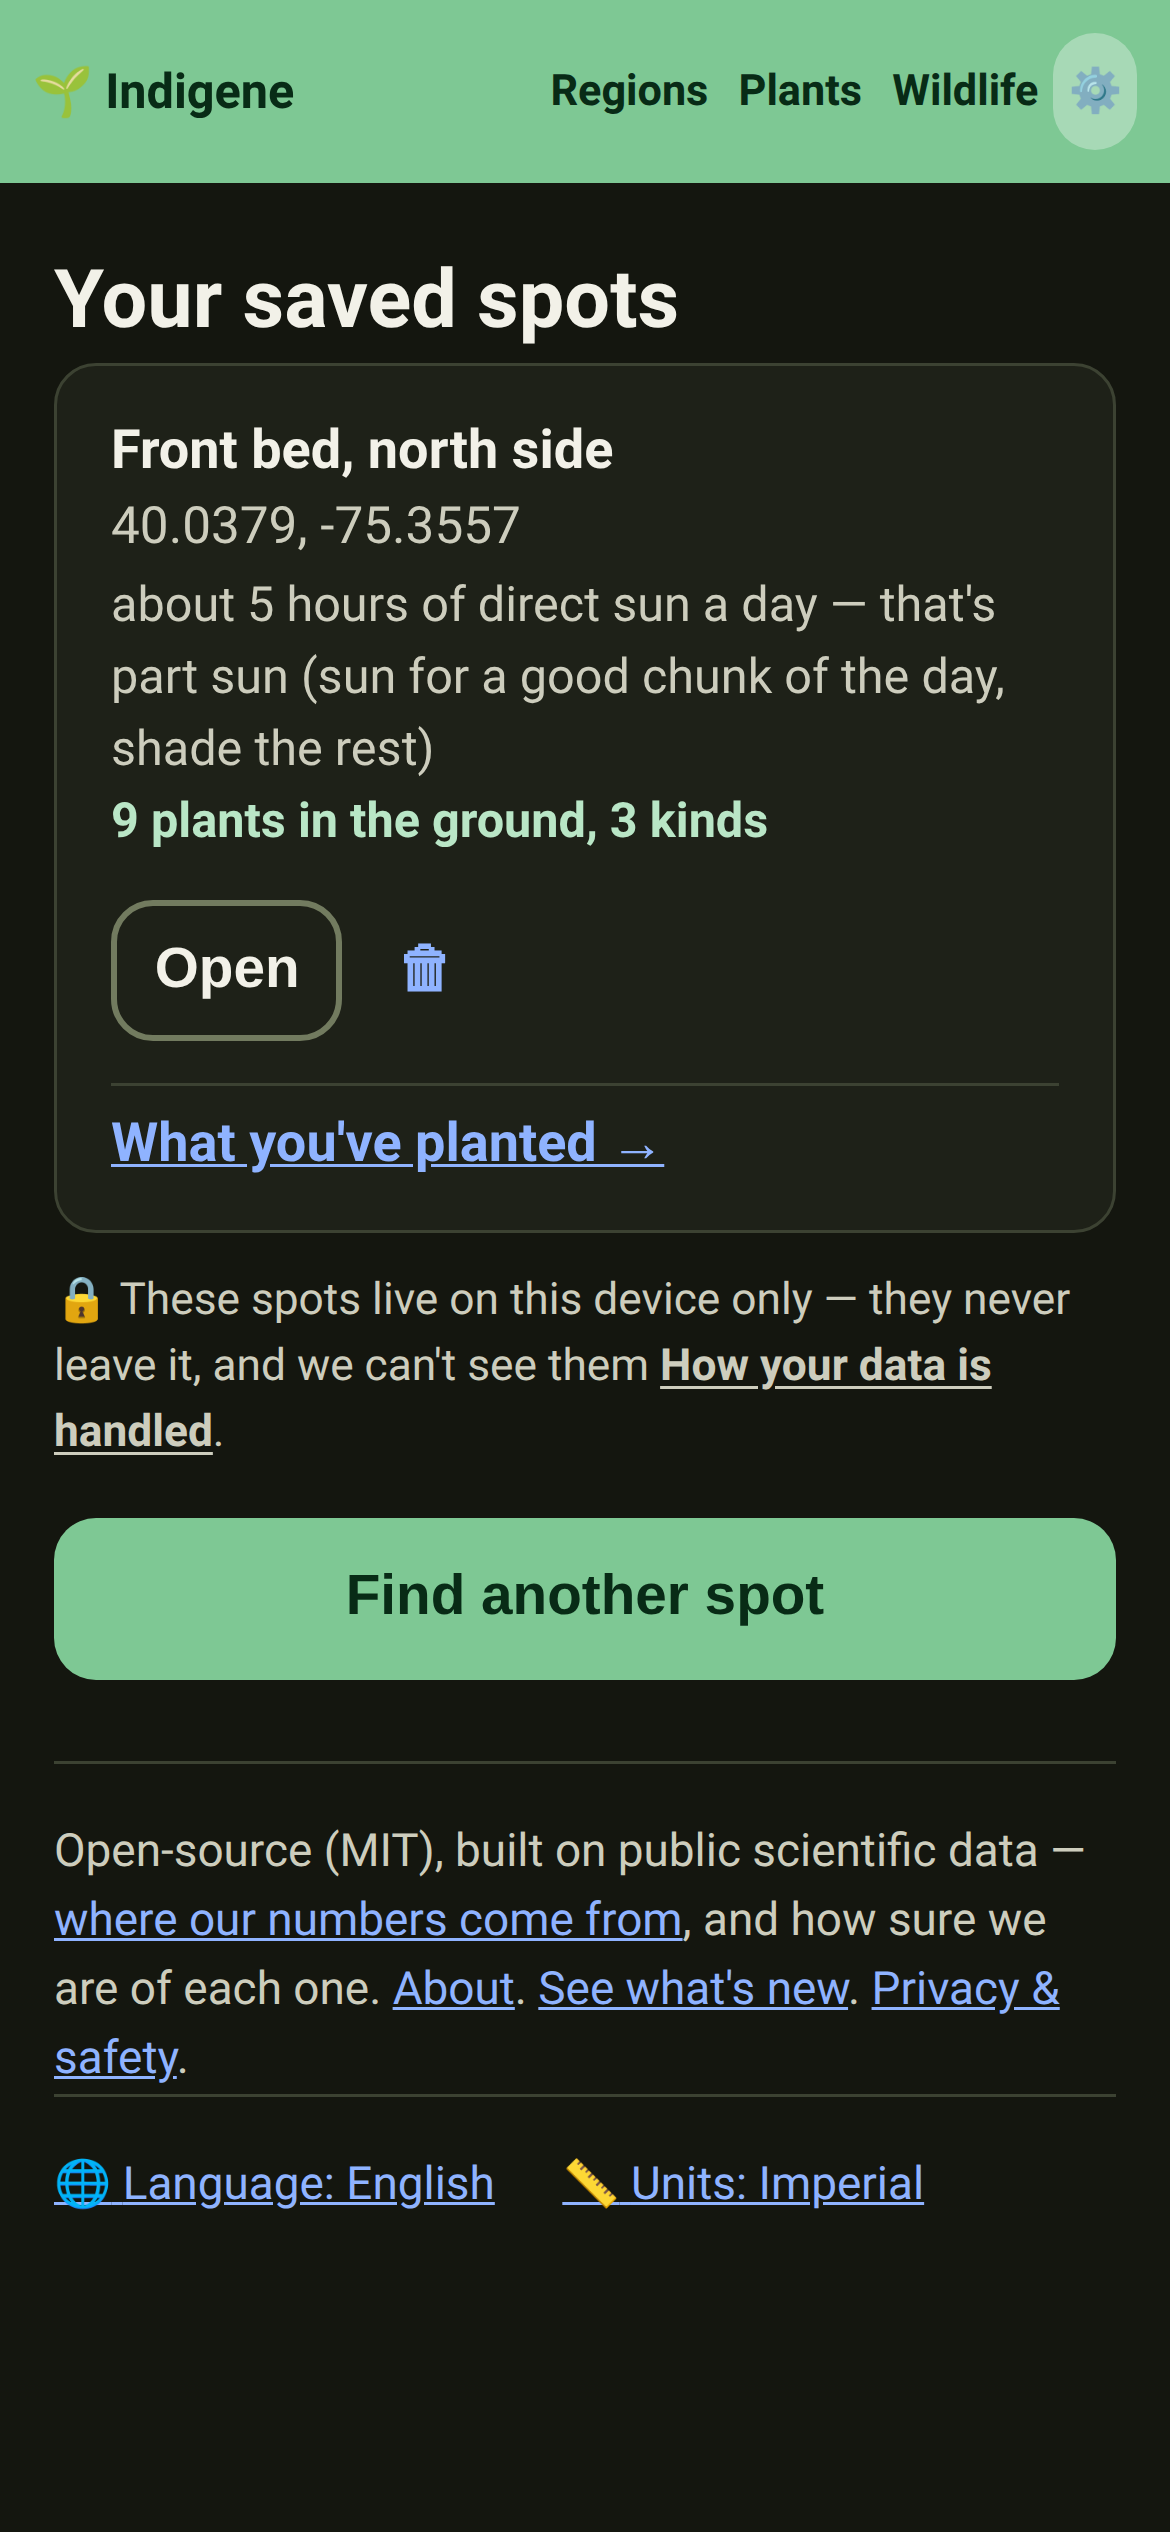
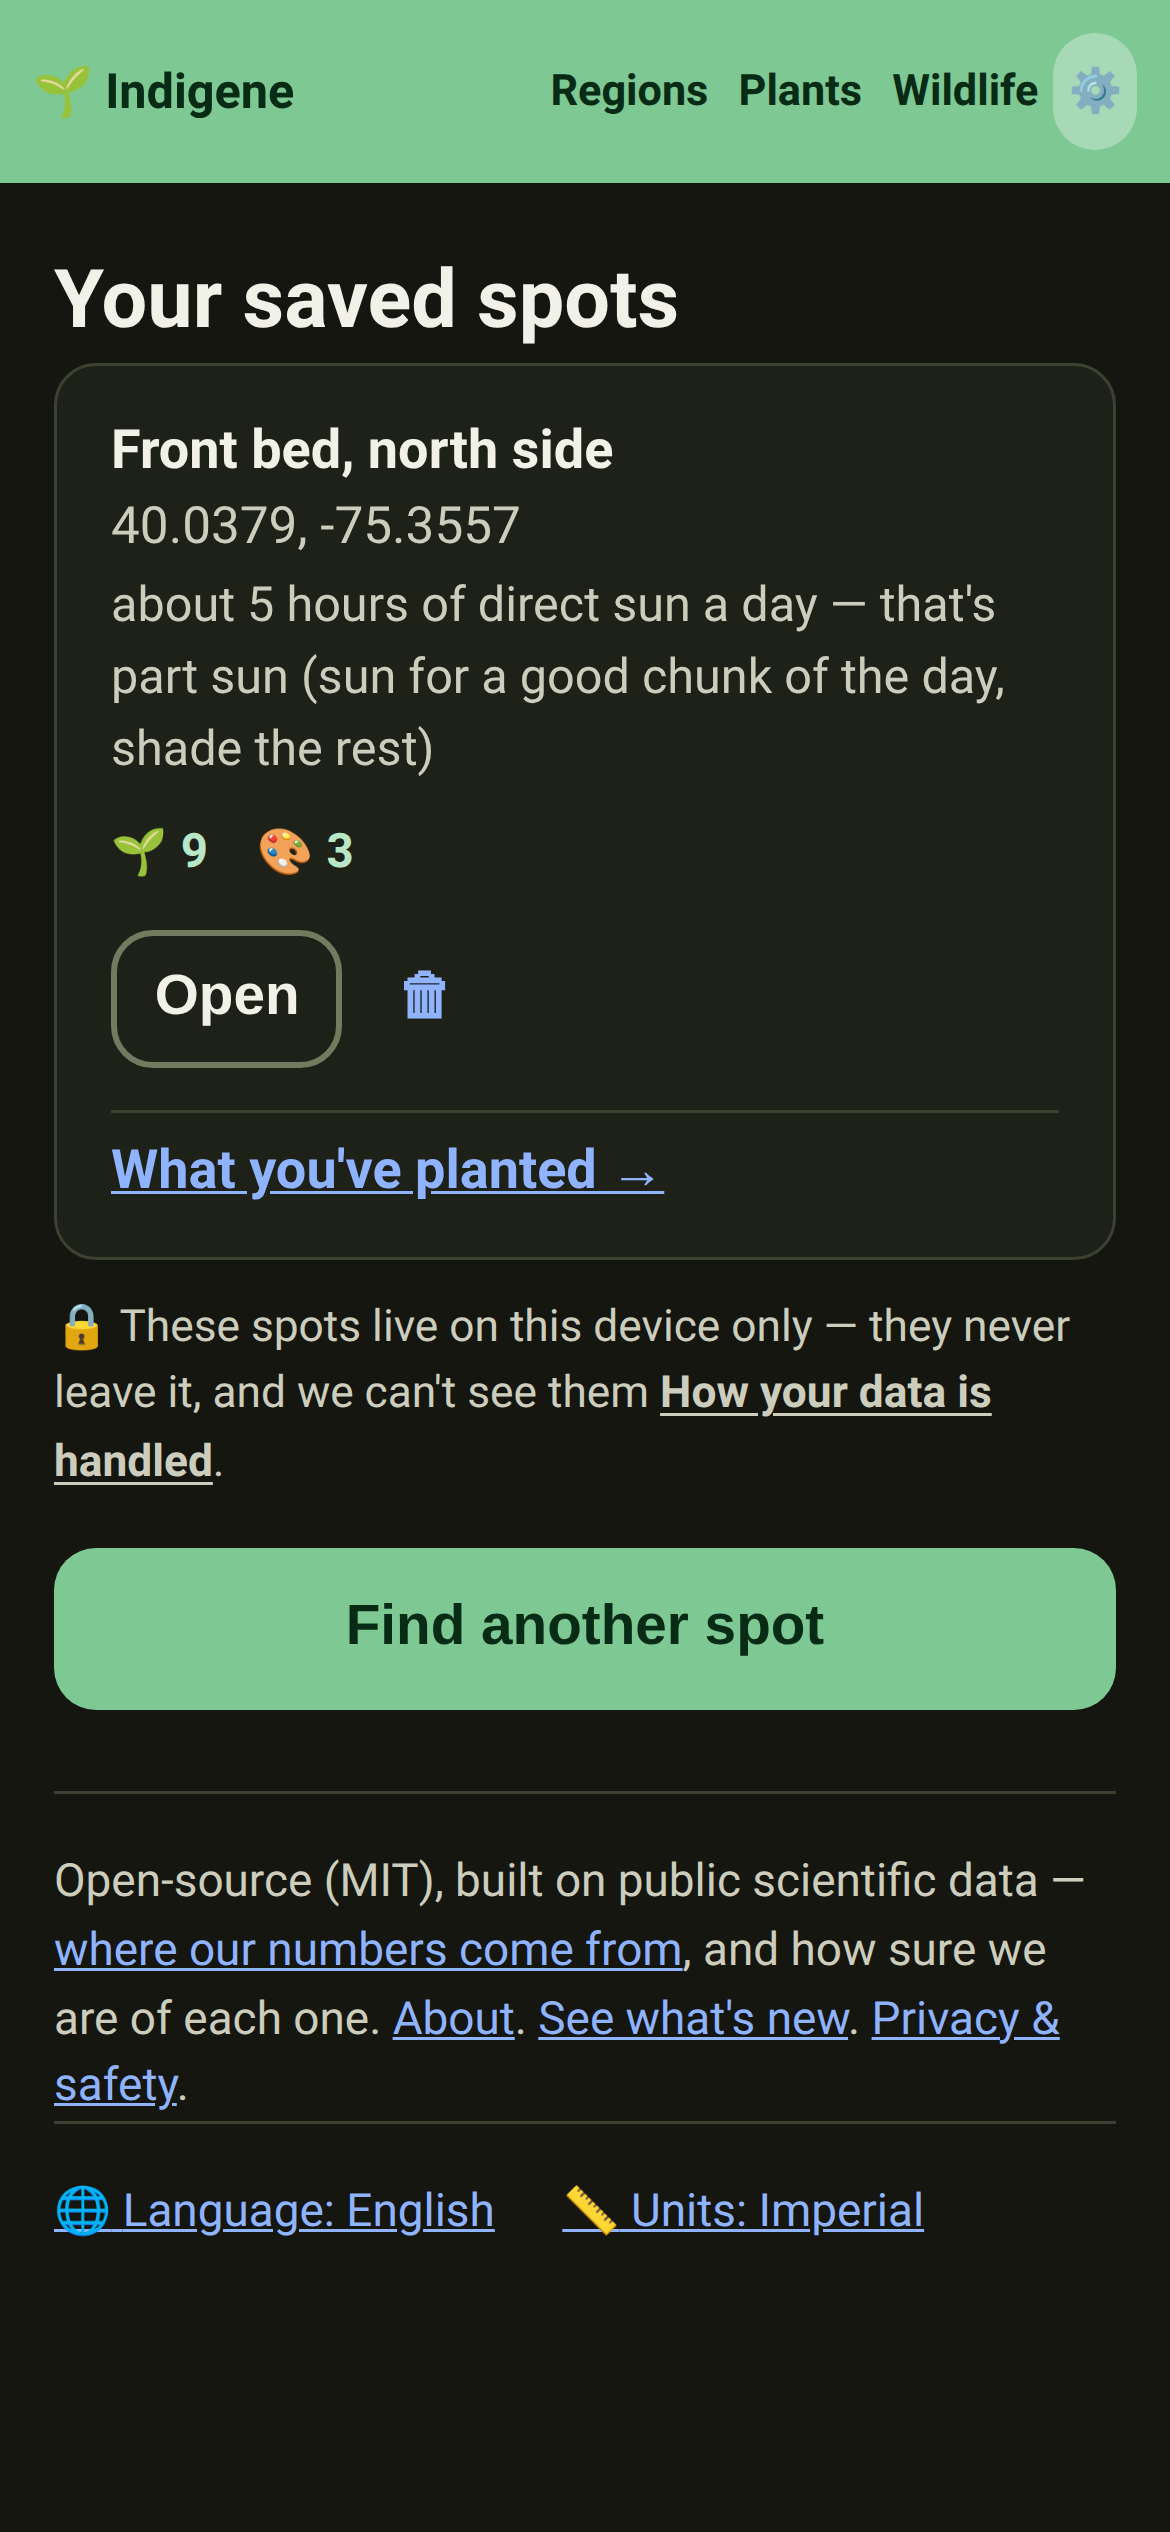
Say a spot's tally the way a region card says its own
"9 plants in the ground, 3 kinds" was a paragraph doing a tile's job: a
sentence to read where two figures would do, and one that grew wider with
every plant added. The Saved list now carries the same icon-and-number row
the region and wildlife cards do (`cardStats`) — 🌱 9 · 🎨 3, matching the
icons on the spot's own stat tiles — with the full sentence kept as the
tooltip and the accessible name.

Claude-Session: https://claude.ai/code/session_01XM5jyCn1X8FjMPArxDLHAj

diff --git a/app/src/steps/saved.ts b/app/src/steps/saved.ts
@@ -5,6 +5,7 @@ import type { Planting } from "../types";
 import { sunPlain } from "../lib/plain";
 import { tally } from "../lib/garden";
 import { privacyNote } from "../components/privacy-link";
+import { cardStats } from "../components/card-stats";
 import { t, tn, fmtNumber } from "../lib/i18n";
 
 // Saved spots — local-first, no account. Open one to reload its readings and
@@ -35,15 +36,28 @@ export async function renderSaved(main: HTMLElement): Promise<void> {
         el("div", { class: "coords" }, `${s.lat.toFixed(4)}, ${s.lon.toFixed(4)}`),
         el("div", { style: "font-size:0.9rem;color:var(--ink-soft)" },
           s.sun ? sunPlain(s.sun.hours) : t("saved.sunUnknown")),
-        // What's actually in the ground here, when anything is. A spot with an
-        // empty log says nothing rather than "0 plants": the log is an offer,
-        // not a chore somebody is behind on.
+        // What's actually in the ground here, when anything is — as figures
+        // rather than a sentence about them, the same row a region's card
+        // carries. "9 plants in the ground, 3 kinds" was a paragraph doing a
+        // tile's job: slower to read, wider than a phone at two spots, and a
+        // translation besides. The full sentence is still there, in the
+        // tooltip and as the accessible name.
+        //
+        // A spot with an empty log shows nothing rather than a row of zeroes:
+        // the log is an offer, not a chore somebody is behind on.
         counts.plants
-          ? el("div", { class: "saved-tally" },
-              tn("saved.tally", counts.plants, {
-                count: fmtNumber(counts.plants),
-                kinds: fmtNumber(counts.kinds),
-              }))
+          ? cardStats([
+              {
+                icon: "🌱",
+                value: fmtNumber(counts.plants),
+                label: tn("saved.statPlants", counts.plants, { count: fmtNumber(counts.plants) }),
+              },
+              {
+                icon: "🎨",
+                value: fmtNumber(counts.kinds),
+                label: tn("saved.statKinds", counts.kinds, { count: fmtNumber(counts.kinds) }),
+              },
+            ])
           : null,
       ]),
       el("div", { style: "display:flex;gap:0.4rem;flex:none" }, [

diff --git a/app/src/locales/fr.ts b/app/src/locales/fr.ts
@@ -218,8 +218,10 @@ export const fr: Dict = {
   "saved.privacy":
     "Ces lieux ne vivent que sur cet appareil — ils n'en sortent jamais, et nous ne pouvons pas les voir",
   "saved.findAnother": "Trouver un autre lieu",
-  "saved.tally.one": "{count} plante en terre",
-  "saved.tally.other": "{count} plantes en terre, {kinds} espèces",
+  "saved.statPlants.one": "{count} plante en terre ici",
+  "saved.statPlants.other": "{count} plantes en terre ici",
+  "saved.statKinds.one": "{count} espèce de plante",
+  "saved.statKinds.other": "{count} espèces de plantes différentes",
   "saved.openLog": "Ce que vous avez planté →",
   "saved.startLog": "Commencer un journal →",
 

diff --git a/app/src/locales/en.ts b/app/src/locales/en.ts
@@ -202,8 +202,10 @@ export const en = {
   "saved.deleted": "Deleted.",
   "saved.privacy": "These spots live on this device only — they never leave it, and we can't see them",
   "saved.findAnother": "Find another spot",
-  "saved.tally.one": "{count} plant in the ground",
-  "saved.tally.other": "{count} plants in the ground, {kinds} kinds",
+  "saved.statPlants.one": "{count} plant in the ground here",
+  "saved.statPlants.other": "{count} plants in the ground here",
+  "saved.statKinds.one": "{count} kind of plant",
+  "saved.statKinds.other": "{count} different kinds of plant",
   "saved.openLog": "What you've planted →",
   "saved.startLog": "Start a planting log →",
 

diff --git a/app/src/styles.css b/app/src/styles.css
@@ -4211,11 +4211,6 @@ body[data-layout="profile"] .wip-banner-text {
 .saved-item {
   flex-wrap: wrap;
 }
-.saved-tally {
-  font-size: 0.9rem;
-  color: var(--brand-ink);
-  font-weight: 650;
-}
 .saved-log-link {
   flex: 1 0 100%;
   padding-top: 0.35rem;
